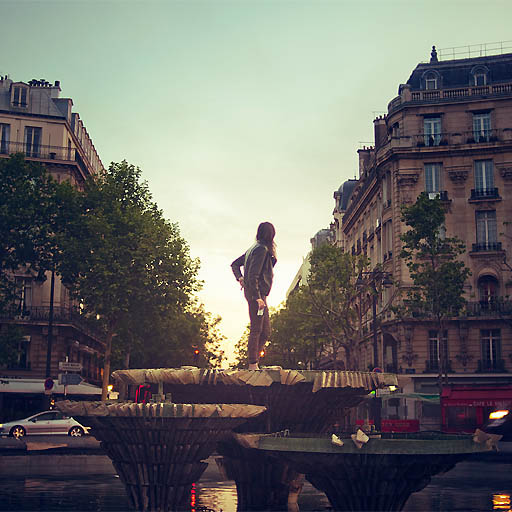
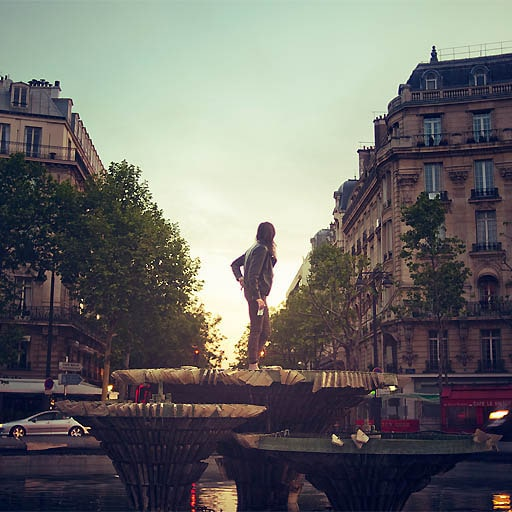
v1.1
Changement des couleurs, intégration images + compression

diff --git a/css/style.css b/css/style.css
@@ -175,7 +175,7 @@ article .entry-content ol {float: left;text-align: justify;margin: 10px 50px;fon
 /* ---------------------------------------------------------------------------- */
 /* -------------------------------------Footer--------------------------------- */
 /* ---------------------------------------------------------------------------- */
-footer{background: #161616;font-size: 15px;color: #999}
+footer{background: #044E70;font-size: 15px;color: #999}
 footer a{color:#999;font-weight: bold;text-shadow: none;}
 footer a:hover{color:#fff;}
 
@@ -191,8 +191,8 @@ footer .col-footer-2 ul li:last-child{border-bottom: none;}
 footer .col-footer-2 ul li a{color: #999;font-size: 12px;}
 footer .col-footer-2 ul li a:hover{color: #eee;}
 
-footer .col-footer-3 a{color: #999; background: #202020; padding: 5px 10px;line-height: 2.3;font-size: 14px;text-transform: capitalize;margin-right: 1px;}
-footer .col-footer-3 a:hover{color: #fff;background: #000;}
+footer .col-footer-3 a{color: #999; background: #044E70; padding: 5px 10px;line-height: 2.3;font-size: 14px;text-transform: capitalize;margin-right: 1px;}
+footer .col-footer-3 a:hover{color: #fff;background: #044E70;}
 
 footer .col-footer-4 img{margin-bottom: 20px;}
 
@@ -216,7 +216,7 @@ footer .bottom-social i.fa{font-size: 24px;margin-right: 12px;}
 /* ---------------------------------------------------------------------------- */
 /* -------------------------------------Button--------------------------------- */
 /* ---------------------------------------------------------------------------- */
-a.button{background-color: #161616;padding: 9px 20px;color: #fff;margin-top: 20px;display:inline-block;text-transform: uppercase;font-size: 13px;letter-spacing: 1px;}
+a.button{background-color: #044E70;padding: 9px 20px;color: #fff;margin-top: 20px;display:inline-block;text-transform: uppercase;font-size: 13px;letter-spacing: 1px;}
 a.button:hover{background-color: #333;}
 
 /* ---------------------------------------------------------------------------- */

diff --git a/css/menu.css b/css/menu.css
@@ -1,6 +1,6 @@
 
 #cssmenu {
-  background: #161616;
+  background: #044E70;
   width: auto;
   padding: 0;
   line-height: 1;
@@ -66,7 +66,7 @@
   height: 10px;
   width: 10px;
   border-radius: 5px;
-  background: #000000;
+  background: #044E70;
   z-index: 1;
   top: 13px;
   right: 15px;
@@ -241,6 +241,16 @@
 #cssmenu > ul > li > ul > li {
   width: 170px;
   display: block;
+}
+#signature{
+  width: 25%;
+  border-radius: 100px;
+  margin-left: auto;
+  margin-right: auto;
+}
+.logo{
+  display: flex;
+  flex-direction: column;
 }
 @media all and (max-width: 800px), only screen and (-webkit-min-device-pixel-ratio: 2) and (max-width: 1024px), only screen and (min--moz-device-pixel-ratio: 2) and (max-width: 1024px), only screen and (-o-min-device-pixel-ratio: 2/1) and (max-width: 1024px), only screen and (min-device-pixel-ratio: 2) and (max-width: 1024px), only screen and (min-resolution: 192dpi) and (max-width: 1024px), only screen and (min-resolution: 2dppx) and (max-width: 1024px) {
 	#cssmenu{background: #161616;}

diff --git a/index.html b/index.html
@@ -32,7 +32,7 @@
 	<div class="wrap-body">
 		<header class="">
 			<div class="logo">
-				<a href="#">Etape Photo</a>
+				<img id="signature" src="images/signature.jpg" />
 				<span>Portraits - Naissances - Grossesses - Mariages - Identité</span>
 			</div>
 			<div id="cssmenu" class="align-center">
@@ -263,11 +263,7 @@
 					<div class="bottom-social">
 						<a href="https://www.facebook.com/Etapephoto/"><i class="fa fa-facebook"></i></a>
 						<a href="https://www.instagram.com/etape.photo/"><i class="fa fa-instagram"></i></a>
-						<a href="#"><i class="fa fa-twitter"></i></a>
-						<a href="#"><i class="fa fa-pinterest"></i></a>
-						<a href="#"><i class="fa fa-vimeo"></i></a>
 						<a href="#"><i class="fa fa-linkedin"></i></a>
-						<a href="#"><i class="fa fa-youtube"></i></a>
 					</div>
 				</div>
 				<div class="copyright">
